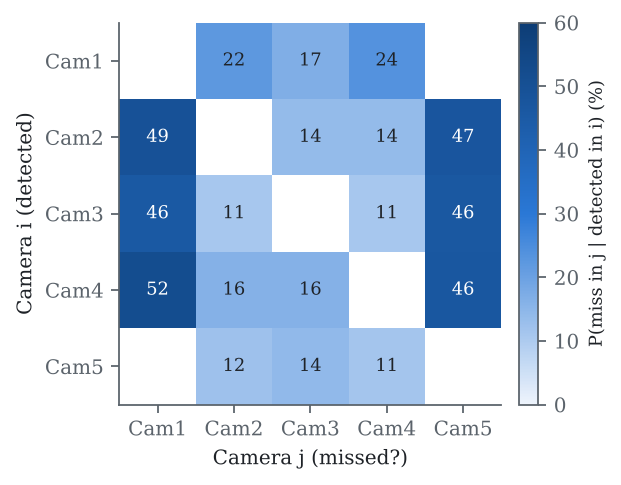
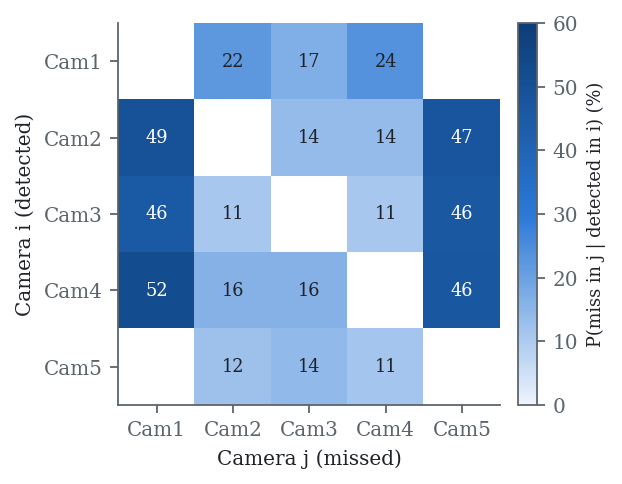
Conditional-miss figure: axis label "Camera j (missed)"
- scripts/supp/make_figures.py: x-axis label without the question mark
- ultralytics/experiments/supp_20261101/figures/e1_conditional_miss.{pdf,png}
  regenerated with the script; data and all other figures unchanged

Claude-Session: https://claude.ai/code/session_01AgzcKDzJuj7GCouGWJwfrp

diff --git a/scripts/supp/make_figures.py b/scripts/supp/make_figures.py
@@ -68,7 +68,7 @@ for i in range(5):
         if not np.isnan(M[i, j]):
             ax.text(j, i, f'{M[i, j]:.0f}', ha='center', va='center', fontsize=8, color='white' if M[i, j] > 35 else INK)
 ax.set_xticks(range(5), [f'Cam{c}' for c in range(1, 6)]); ax.set_yticks(range(5), [f'Cam{c}' for c in range(1, 6)])
-ax.set_xlabel('Camera j (missed?)'); ax.set_ylabel('Camera i (detected)'); ax.grid(False)
+ax.set_xlabel('Camera j (missed)'); ax.set_ylabel('Camera i (detected)'); ax.grid(False)
 cb = fig.colorbar(im, ax=ax, fraction=.046, pad=.04); cb.set_label('P(miss in j | detected in i) (%)', fontsize=8)
 save(fig, 'e1_conditional_miss')
 
